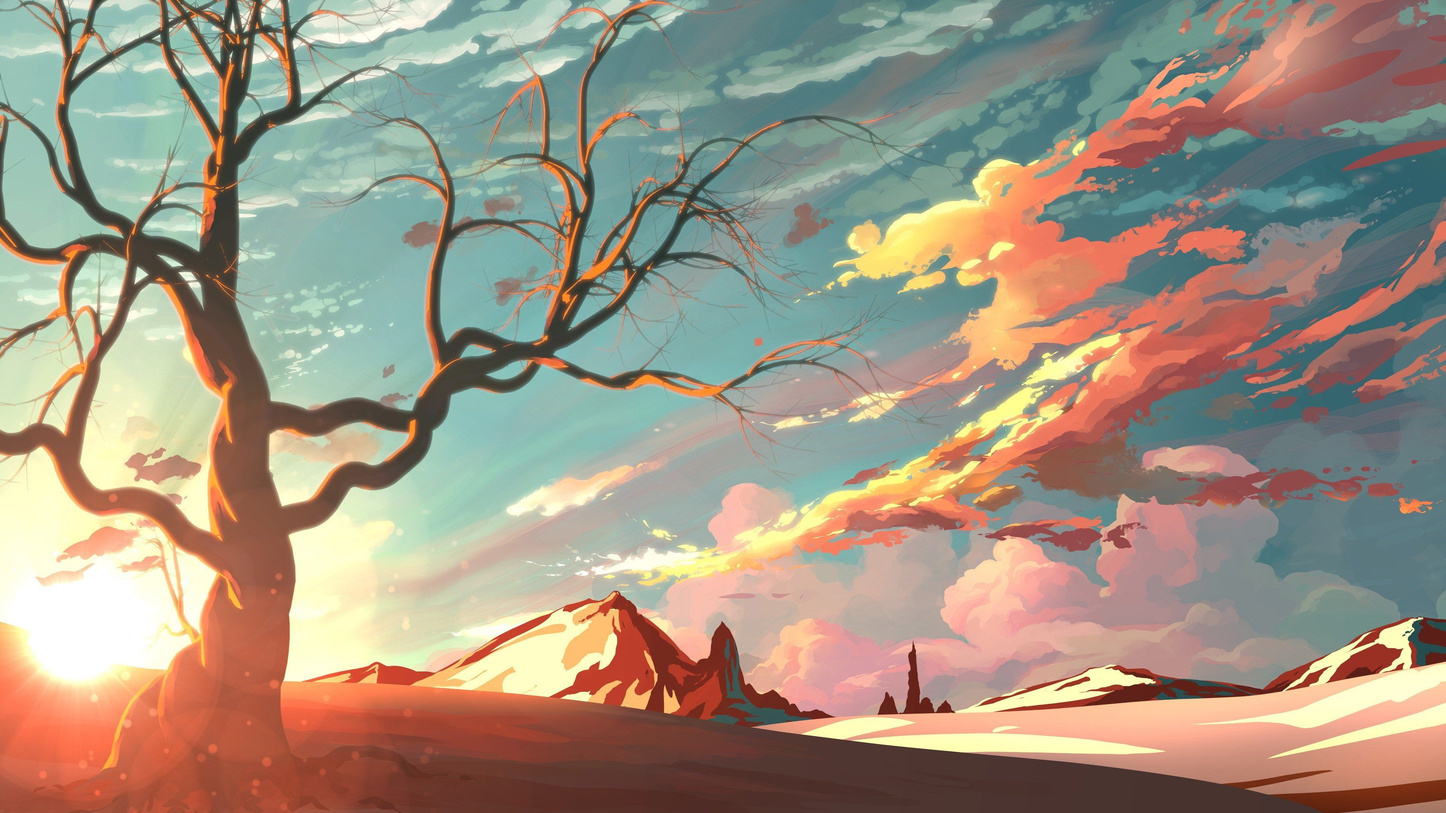
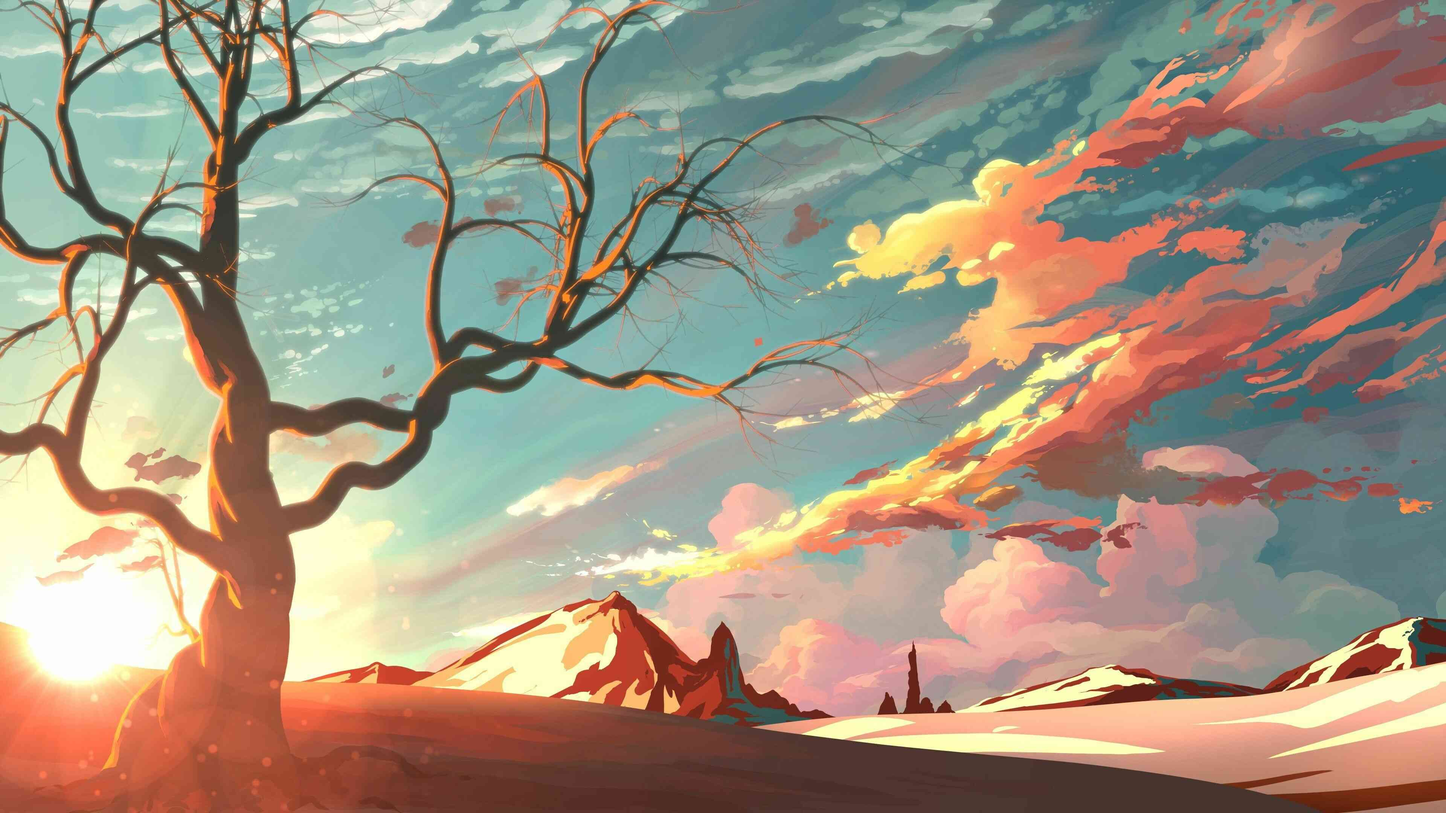
add forgot password styles

diff --git a/public/css/dist/style.css b/public/css/dist/style.css
@@ -826,6 +826,86 @@ button:hover::before, .button:hover::before {
   }
 }
 
+.forgot {
+  position: relative;
+  width: 100%;
+  min-height: 90vh;
+  -webkit-box-pack: center;
+      -ms-flex-pack: center;
+          justify-content: center;
+  -webkit-box-align: center;
+      -ms-flex-align: center;
+          align-items: center;
+  overflow: hidden;
+}
+
+.forgot__image {
+  position: absolute;
+  width: 100%;
+  min-height: 100vh;
+  background-image: url("/img/illustration/mountain_tree.jpeg");
+  background-repeat: no-repeat;
+  background-size: cover;
+  background-position: center;
+}
+
+.forgot__container {
+  padding-top: 15rem;
+  display: -webkit-box;
+  display: -ms-flexbox;
+  display: flex;
+  -webkit-box-pack: center;
+      -ms-flex-pack: center;
+          justify-content: center;
+  -webkit-box-align: center;
+      -ms-flex-align: center;
+          align-items: center;
+}
+
+@media (max-width: 63.9375em) {
+  .forgot__container {
+    padding-top: 16rem;
+  }
+}
+
+@media (max-width: 39.9375em) {
+  .forgot__container {
+    padding-top: 11rem;
+  }
+}
+
+.forgot__box {
+  position: relative;
+  z-index: 1;
+  background: white;
+  -webkit-box-shadow: 0 5px 25px rgba(0, 0, 0, 0.15);
+          box-shadow: 0 5px 25px rgba(0, 0, 0, 0.15);
+  width: 25.875rem;
+  min-width: 20rem;
+  padding: 3.125rem 2.5rem;
+  border-radius: 0.3125rem;
+  overflow: hidden;
+}
+
+.forgot__box legend {
+  font-size: 2rem;
+}
+
+.forgot__box .form-group label {
+  font-size: 1.3rem;
+}
+
+.forgot__box .form-group .deskripsi {
+  font-size: 1rem;
+  color: gray;
+}
+
+@media (max-width: 39.9375em) {
+  .forgot__box .form-group .deskripsi {
+    font-size: 0.9rem;
+  }
+}
+
 .pelajaran {
   background-color: #fff8f3;
   text-align: center;

diff --git a/public/css/_forgot.scss b/public/css/_forgot.scss
@@ -1,0 +1,70 @@
+.forgot {
+
+    position: relative;
+    width: 100%;
+    min-height: 90vh;
+    justify-content: center;
+    align-items: center;
+    overflow: hidden;
+    
+
+    &__image {
+        
+        position: absolute;
+        width: 100%;
+        min-height: 100vh;
+        background-image: url('/img/illustration/mountain_tree.jpeg');
+        background-repeat: no-repeat;
+        background-size: cover;
+        background-position: center;
+    }
+
+    &__container {
+        padding-top: 15rem;
+        display: flex;
+        justify-content: center;
+        align-items: center;
+
+        @include breakpoint-down(medium){
+            padding-top: 16rem;
+        }
+
+        @include breakpoint-down(small){
+            padding-top: 11rem;
+        }
+    }
+
+    &__box {
+        position: relative;
+        z-index: 1;
+        background: white;
+        box-shadow: 0 5px 25px rgba(0, 0, 0, 0.15);
+        width: 25.875rem;
+        min-width: 20rem;
+        padding: 3.125rem 2.5rem;
+        border-radius: 0.3125rem;
+        overflow: hidden;
+
+        legend {
+            font-size: 2rem;
+
+        }
+
+        .form-group {
+
+            label {
+                font-size: 1.3rem;
+            }
+
+            .deskripsi {
+                font-size: 1rem;
+                color: gray;
+
+                @include breakpoint-down(small){
+                    font-size: 0.9rem;
+                }
+            }
+        }
+    }
+
+}

diff --git a/routes/users.js b/routes/users.js
@@ -33,7 +33,11 @@ router.get('/masuk', isLoggedOut, (req, res) => {
     });
 });
 
-router.post('/masuk', passport.authenticate('local', { failureFlash: 'Password or username is incorrect', failureRedirect: '/masuk'}), (req, res) => {
+router.post('/masuk', passport.authenticate('local', {
+    failureFlash: 'Password or username is incorrect',
+    failureRedirect: '/masuk'
+    }),
+    (req, res) => {
     req.flash('success', 'Welcome to FibonacciKu!');
     const redirectUrl = req.session.returnTo || '/beranda';
     delete req.session.returnTo;
@@ -86,6 +90,9 @@ router.get('/auth/facebook/callback', passport.authenticate('facebook', {
     res.redirect(redirectUrl);
 });
 
+router.get('/lupa-password', isLoggedOut,(req, res) => {
+    res.render('registration/forgot')
+})
 
 router.get('/keluar', (req, res) => {
     req.logout();

diff --git a/models/user.js b/models/user.js
@@ -21,7 +21,17 @@ const UserSchema = new Schema({
         required: true,
         unique: true
     },
-    avatar: String
+    password: {
+        type: String,
+        required: true,
+    },
+    avatar: String,
+    resetPasswordToken: String,
+    resetPasswordExpires: Date,
+    isAdmin: {
+        type: Boolean,
+        default: false
+    }
 });
 
 UserSchema.plugin(passportLocalMongoose);

diff --git a/public/css/style.scss b/public/css/style.scss
@@ -5,6 +5,7 @@
 @import "flash";
 @import "header";
 @import "form";
+@import "forgot";
 @import "pelajaran";
 @import "shows";
 @import "modals";
